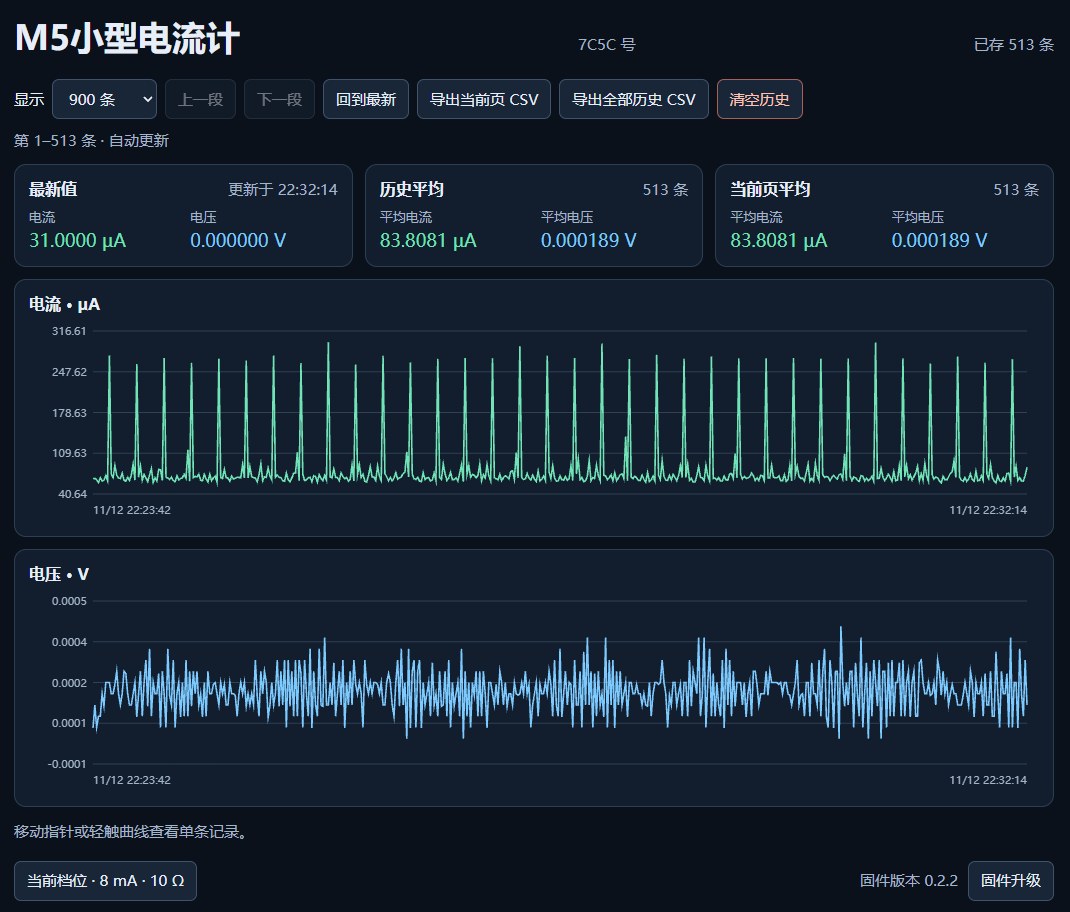
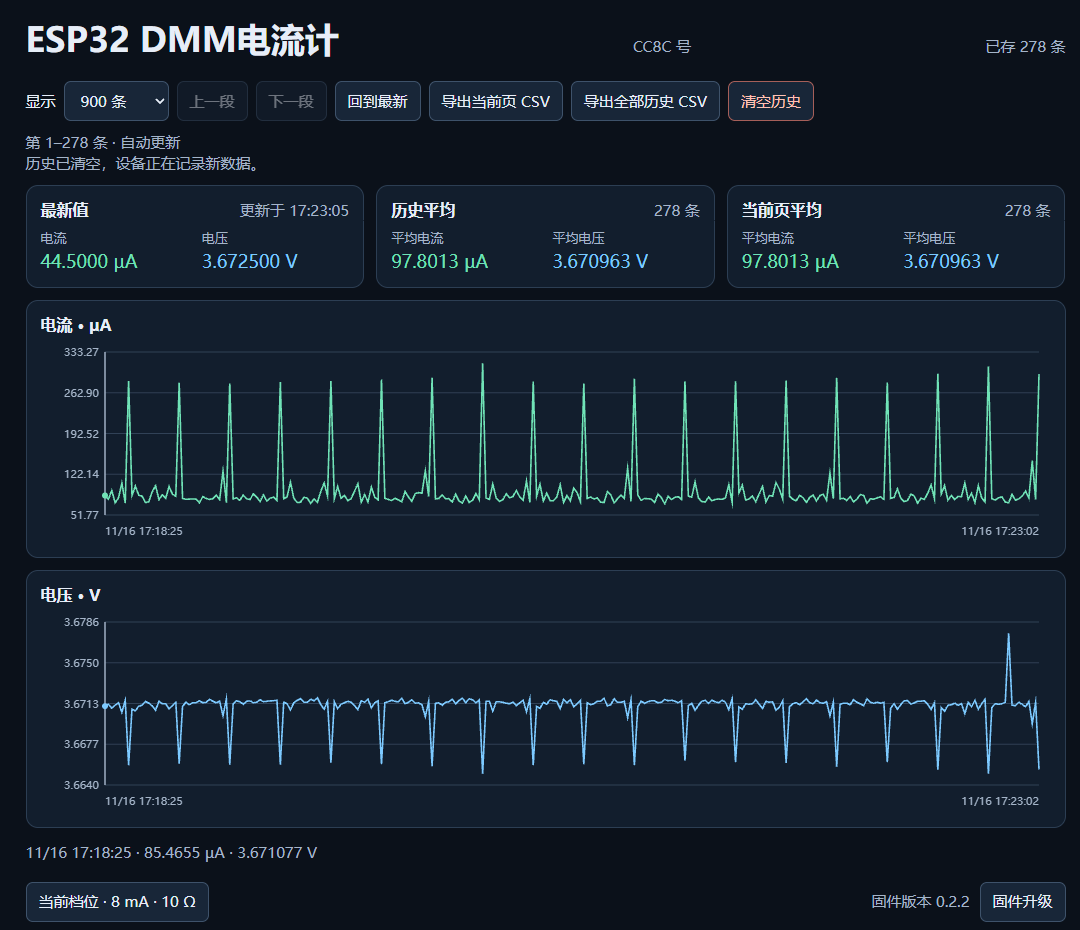
Update the README dashboard and hardware photos

diff --git a/README.md b/README.md
@@ -5,6 +5,7 @@
 <p>
   <img src="docs/images/atoms3r-meter.jpg" alt="AtomS3R 与 INA226 测量模块的实物照片" width="300">
   <img src="docs/images/atoms3r-display.png" alt="AtomS3R 屏幕特写，显示电流、电压、记录数和网络信息" width="280">
+  <img src="docs/images/sticks3-display.png" alt="StickS3 竖屏实拍，显示实时电流、电压、历史平均值和电量" width="200">
 </p>
 
 ## 能做什么
@@ -22,8 +23,6 @@
    - **[M5Stack CoreS3](https://docs.m5stack.com/en/core/CoreS3)** — 大屏同时显示电流和电压，可查看记录数、网络地址和清空确认提示。
    - **[M5Stack AtomS3R](https://docs.m5stack.com/en/core/AtomS3R)** — 128 × 128 小屏用绿色大字显示电流，下方用蓝字显示电压，并显示日期时间、记录数和网络信息。
 2. **外设配件** — [M5Stack Unit INA226-1A](https://docs.m5stack.com/en/unit/Unit_INA226-1A) 测量模块，用于采集直流电流和电压。
-
-<img src="docs/images/sticks3-display.png" alt="StickS3 竖屏实拍，显示实时电流、电压、历史平均值和电量" width="280">
 
 ## 网页界面
 
